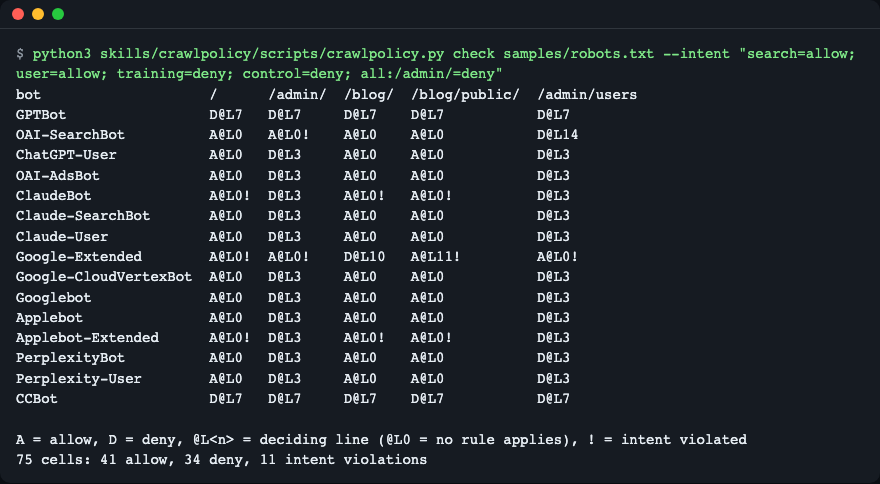
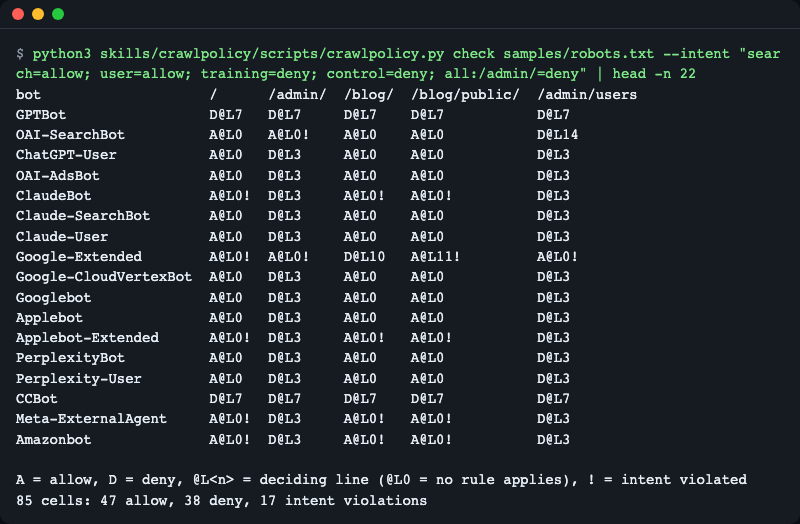
docs(readme): update for 17 built-in bots and refresh screenshots
Refresh the eval table date and the screenshots; add the 0.1.6 changelog entry.

Changed region(s): [[0.0, 0.093, 0.9688, 0.8678], [0.0, 0.8988, 0.9375, 0.9917], [0.0, 0.0, 0.0938, 0.062]]

diff --git a/README.ko.md b/README.ko.md
@@ -62,7 +62,7 @@ python3 skills/crawlpolicy/scripts/crawlpolicy.py check samples/robots.txt \
 판정 표는 위에 있습니다. 그 아래로 위반과 수정안이 나옵니다(위반이 있어서 종료 코드는 1 입니다). 아래는 영어 출력의 일부입니다.
 
 ```
-Intent violations (11):
+Intent violations (17):
   ! OAI-SearchBot /admin/ => allow @L0  (wanted deny by 'all:/admin/=deny')
   ! ClaudeBot / => allow @L0  (wanted deny by 'training=deny')
   ...
@@ -100,7 +100,7 @@ python3 skills/crawlpolicy/scripts/crawlpolicy.py diff samples/robots.old.txt sa
 ```
 
 ![두 robots.txt 사이에서 바뀐 칸만](docs/images/diff.ko.png)
-*75칸 중 7칸이 바뀌었습니다: `Google-Extended` 는 열렸고(`(접근 허용으로 바뀜)`) `CCBot` 은 막혔습니다(`(접근 차단으로 바뀜)`).*
+*85칸 중 7칸이 바뀌었습니다: `Google-Extended` 는 열렸고(`(접근 허용으로 바뀜)`) `CCBot` 은 막혔습니다(`(접근 차단으로 바뀜)`).*
 
 ## 의도 문법
 
@@ -108,7 +108,7 @@ python3 skills/crawlpolicy/scripts/crawlpolicy.py diff samples/robots.old.txt sa
 
 | `<who>` | 뜻 |
 |---|---|
-| `training` | 학습 데이터를 모으는 크롤러(`GPTBot`, `ClaudeBot`, `CCBot`) |
+| `training` | 학습 데이터를 모으는 크롤러(`GPTBot`, `ClaudeBot`, `CCBot`, `Meta-ExternalAgent`, `Amazonbot`) |
 | `search` | 검색 크롤러(`OAI-SearchBot`, `Claude-SearchBot`, `Googlebot`, `Applebot`, `PerplexityBot`) |
 | `user` | 사용자 요청으로 가져오는 봇(`ChatGPT-User`, `Claude-User`, `Perplexity-User`) |
 | `control` | 수집된 내용의 사용 방식만 정하는 제어 토큰(`Google-Extended`, `Applebot-Extended`) |
@@ -128,12 +128,14 @@ python3 skills/crawlpolicy/scripts/crawlpolicy.py diff samples/robots.old.txt sa
 | Applebot, Applebot-Extended | Apple | search, control | [Apple 지원](https://support.apple.com/en-us/119829) |
 | PerplexityBot, Perplexity-User | Perplexity | search, user | [bots](https://docs.perplexity.ai/guides/bots) |
 | CCBot | Common Crawl | training | [CCBot](https://commoncrawl.org/ccbot) |
+| Meta-ExternalAgent | Meta | training | [web crawlers](https://developers.facebook.com/docs/sharing/webmasters/web-crawlers/) |
+| Amazonbot | Amazon | training | [Amazonbot](https://developer.amazon.com/amazonbot) |
 
-2026-11-14 확인. Bingbot 은 해당 페이지를 확인하지 못해 표에서 뺐습니다. `--bots` 로 아무 토큰이나 넘기거나, `--bots-file FILE`(`{"token": ..., "role": ...}` 의 JSON 목록)로 표 전체를 바꿀 수 있습니다.
+2026-11-16 확인. Bingbot 은 해당 페이지를 확인하지 못해 표에서 뺐습니다. `--bots` 로 아무 토큰이나 넘기거나, `--bots-file FILE`(`{"token": ..., "role": ...}` 의 JSON 목록)로 표 전체를 바꿀 수 있습니다.
 
 ## 출력
 
-- 터미널: 판정 표, 위반, 패치, `re-verified: ...`(한국어 출력은 `재검증: ...`), 제공자 메모. 작은 실행(봇 하나, 12칸 이하, 또는 `--url`/`--urls` 로 URL 을 준 60칸 이하)은 판정 표 대신 칸마다 이긴 규칙 문장 또는 `(해당 규칙 없음)` 이 붙은 `<bot> <url> => allow|deny @L<n>  (<rule>)` 한 줄을 냅니다. 75칸짜리 데모처럼 큰 실행은 표를 그대로 씁니다.
+- 터미널: 판정 표, 위반, 패치, `re-verified: ...`(한국어 출력은 `재검증: ...`), 제공자 메모. 작은 실행(봇 하나, 12칸 이하, 또는 `--url`/`--urls` 로 URL 을 준 68칸 이하)은 판정 표 대신 칸마다 이긴 규칙 문장 또는 `(해당 규칙 없음)` 이 붙은 `<bot> <url> => allow|deny @L<n>  (<rule>)` 한 줄을 냅니다. 85칸짜리 데모처럼 큰 실행은 표를 그대로 씁니다.
 - 작업 폴더의 `crawlpolicy-report.json`: `source.sha256`, `verdict`·`rule_line` 이 있는 칸, 위반, `fix.verified`, `fix.violations_after`, `fix.regressions`. 키는 두 언어에서 같고, 실행할 때마다 덮어씁니다. 수정 안 한 `robots.fixed.txt` 에 `check`·`diff` 를 다시 돌리면 원래 report 는 그대로 두고 결과를 안내 문구와 함께 `crawlpolicy-report.fixed.json` 에 씁니다. fix 실행이 이미 재검증 결과를 출력하므로 이 두 번째 실행은 필요 없습니다.
 - `--out /dev/null`: 보고서를 남기지 않습니다. 판정과 패치는 그대로 출력하고 `files:` 줄이 보고서를 남기지 않았다고 알립니다. 작업 폴더에 쓸 수 없으면(읽기 전용·권한 없음) 아무것도 쓰지 않고 모든 판정·패치·`re-verified:` 줄을 출력하며 stderr 에 경고 한 줄을 냅니다. 종료 코드는 판정을 따릅니다. 직접 준 `--out` 에 쓸 수 없으면 입력 오류(종료 2)입니다.
 - 모든 실행은 `files:` 줄(한국어 출력은 `파일:`)로 끝납니다. 입력 파일은 하나도 바꾸지 않았고 이번에 쓴 출력 파일(보고서, 수정안이 있으면 `robots.fixed.txt` 도)이 적힙니다. 앞선 실행이 남긴 보고서나 `robots.fixed.txt` 를 바꿨다면 그 사실도 밝힙니다(`... already existed and was replaced`). 편집이 아니라 출력이니 그대로 두세요. `--out`·`--fixed-out` 이 입력 파일(robots.txt, `--urls`, `--bots-file`)이나 서로를 가리키면 옵션 이름을 적어 거부합니다(종료 2). 예: `error: --fixed-out urls.txt would overwrite the --urls file — choose another path`(한국어 출력은 `오류: ...`). 직접 준 `--out` 은 crawlpolicy 보고서가 아닌 기존 파일을 바꾸지 않습니다. 직접 고른 `--fixed-out` 경로에 파일이 이미 있으면 교체하고 `files:` 줄이 알려 줍니다. 잘못된 URL 은 한 줄 오류와 종료 2 입니다.
@@ -161,11 +163,11 @@ CRAWLPOLICY_LANG=ko python3 skills/crawlpolicy/scripts/crawlpolicy.py diff sampl
 | 필요 없을 때 안 불림 | 11/11 |
 | 스킬로 푼 작업 | 7/7 |
 | 스킬 없이 푼 작업(기준선) | 0/7 |
-| 평균 점수 차이(Δ) | +0.59 |
+| 평균 점수 차이(Δ) | +0.61 |
 | 가짜 스크립트를 잡아낸 비율 | 7/7 |
 | Codex CLI | 작업 7/7 통과 · 확인됨 |
 
-Claude Code 2.1.322 · sonnet · 케이스마다 3회 · 2026-11-15 측정 · codex-cli 0.154.0
+Claude Code 2.1.322 · sonnet · 케이스마다 3회 · 2026-11-16 측정 · codex-cli 0.154.0
 <!-- skill-eval:end -->
 
 ## 동작 원리
@@ -199,7 +201,7 @@ flowchart LR
 uv sync && uv run pytest -q
 ```
 
-테스트 241개가 통과합니다(`uv run pytest -q`, 파이썬 3.10·3.12·3.14 CI 매트릭스). `evals/` 폴더에는 발동 케이스 12개(한국어 3개), 비발동 케이스 11개, 픽스처가 있는 작업 케이스 7개가 있고 `claude plugin eval` 이 사용합니다.
+테스트 242개가 통과합니다(`uv run pytest -q`, 파이썬 3.10·3.12·3.14 CI 매트릭스). `evals/` 폴더에는 발동 케이스 12개(한국어 3개), 비발동 케이스 11개, 픽스처가 있는 작업 케이스 7개가 있고 `claude plugin eval` 이 사용합니다.
 
 ## 라이선스
 

diff --git a/README.md b/README.md
@@ -62,7 +62,7 @@ python3 skills/crawlpolicy/scripts/crawlpolicy.py check samples/robots.txt \
 The matrix is shown above. Below it come the violations and the fix (the command exits with code 1 because violations were found):
 
 ```
-Intent violations (11):
+Intent violations (17):
   ! OAI-SearchBot /admin/ => allow @L0  (wanted deny by 'all:/admin/=deny')
   ! ClaudeBot / => allow @L0  (wanted deny by 'training=deny')
   ...
@@ -100,7 +100,7 @@ python3 skills/crawlpolicy/scripts/crawlpolicy.py diff samples/robots.old.txt sa
 ```
 
 ![Only the changed cells between two robots.txt files](docs/images/diff.png)
-*7 of 75 cells changed: `Google-Extended` opened up (`(gained access)`), `CCBot` got blocked (`(lost access)`).*
+*7 of 85 cells changed: `Google-Extended` opened up (`(gained access)`), `CCBot` got blocked (`(lost access)`).*
 
 ## Intent syntax
 
@@ -108,7 +108,7 @@ python3 skills/crawlpolicy/scripts/crawlpolicy.py diff samples/robots.old.txt sa
 
 | `<who>` | Meaning |
 |---|---|
-| `training` | crawlers that collect training data (`GPTBot`, `ClaudeBot`, `CCBot`) |
+| `training` | crawlers that collect training data (`GPTBot`, `ClaudeBot`, `CCBot`, `Meta-ExternalAgent`, `Amazonbot`) |
 | `search` | search crawlers (`OAI-SearchBot`, `Claude-SearchBot`, `Googlebot`, `Applebot`, `PerplexityBot`) |
 | `user` | fetches made for a user request (`ChatGPT-User`, `Claude-User`, `Perplexity-User`) |
 | `control` | control tokens that only say how crawled content may be used (`Google-Extended`, `Applebot-Extended`) |
@@ -128,12 +128,14 @@ python3 skills/crawlpolicy/scripts/crawlpolicy.py diff samples/robots.old.txt sa
 | Applebot, Applebot-Extended | Apple | search, control | [Apple support](https://support.apple.com/en-us/119829) |
 | PerplexityBot, Perplexity-User | Perplexity | search, user | [bots](https://docs.perplexity.ai/guides/bots) |
 | CCBot | Common Crawl | training | [CCBot](https://commoncrawl.org/ccbot) |
+| Meta-ExternalAgent | Meta | training | [web crawlers](https://developers.facebook.com/docs/sharing/webmasters/web-crawlers/) |
+| Amazonbot | Amazon | training | [Amazonbot](https://developer.amazon.com/amazonbot) |
 
-Checked 2026-11-14. Bingbot is not in the table because its page could not be verified; pass any token with `--bots`, or replace the whole table with `--bots-file FILE` (a JSON list of `{"token": ..., "role": ...}`).
+Checked 2026-11-16. Bingbot is not in the table because its page could not be verified; pass any token with `--bots`, or replace the whole table with `--bots-file FILE` (a JSON list of `{"token": ..., "role": ...}`).
 
 ## Output
 
-- Terminal: the matrix, violations, patch, `re-verified: ...`, provider notes. Small runs (one bot, at most 12 cells, or URLs given with `--url`/`--urls` and at most 60 cells) print one `<bot> <url> => allow|deny @L<n>  (<rule>)` line per cell instead of the matrix, with the winning rule text or `(no matching rule)`. Larger runs, like the 75-cell demo, keep the matrix.
+- Terminal: the matrix, violations, patch, `re-verified: ...`, provider notes. Small runs (one bot, at most 12 cells, or URLs given with `--url`/`--urls` and at most 68 cells) print one `<bot> <url> => allow|deny @L<n>  (<rule>)` line per cell instead of the matrix, with the winning rule text or `(no matching rule)`. Larger runs, like the 85-cell demo, keep the matrix.
 - `crawlpolicy-report.json` in the working folder: `source.sha256`, cells with `verdict` and `rule_line`, violations, `fix.verified`, `fix.violations_after`, `fix.regressions`. Keys are the same in both languages. Each run overwrites the file. If you run `check` or `diff` on the unchanged `robots.fixed.txt`, the original report is kept and the result goes to `crawlpolicy-report.fixed.json` with a note; the fix run itself already prints the re-verification, so that second run is not needed.
 - `--out /dev/null`: keep no report; the verdicts and the patch are still printed and the `files:` line says no report was kept. If the working folder cannot be written (read-only, no permission), nothing is written, every verdict, patch and `re-verified:` line is still printed, and a one-line warning goes to stderr; the exit code follows the verdicts. An explicit `--out` that cannot be written is an input error (exit 2).
 - `robots.fixed.txt`: the fixed copy.
@@ -162,11 +164,11 @@ CRAWLPOLICY_LANG=ko python3 skills/crawlpolicy/scripts/crawlpolicy.py diff sampl
 | Stays quiet when it should not | 11/11 |
 | Tasks solved with the skill | 7/7 |
 | Tasks solved without it (baseline) | 0/7 |
-| Mean score gain (Δ) | +0.59 |
+| Mean score gain (Δ) | +0.61 |
 | Tasks that catch a broken script | 7/7 |
 | Codex CLI | 7/7 tasks · verified |
 
-Measured 2026-11-15 with Claude Code 2.1.322 · sonnet · 3 runs per case · codex-cli 0.154.0
+Measured 2026-11-16 with Claude Code 2.1.322 · sonnet · 3 runs per case · codex-cli 0.154.0
 <!-- skill-eval:end -->
 
 ## How it works
@@ -200,7 +202,7 @@ Good fits: checking a robots.txt before deploy when you want AI training crawler
 uv sync && uv run pytest -q
 ```
 
-241 tests pass (`uv run pytest -q`, Python 3.10, 3.12 and 3.14 in the CI matrix). The `evals/` folder holds 12 trigger cases (3 in Korean), 11 no-trigger cases and 7 task cases with fixtures, used by `claude plugin eval`.
+242 tests pass (`uv run pytest -q`, Python 3.10, 3.12 and 3.14 in the CI matrix). The `evals/` folder holds 12 trigger cases (3 in Korean), 11 no-trigger cases and 7 task cases with fixtures, used by `claude plugin eval`.
 
 ## License
 

diff --git a/CHANGELOG.md b/CHANGELOG.md
@@ -4,6 +4,20 @@ All notable changes to this project are documented here. The format follows
 [Keep a Changelog](https://keepachangelog.com/en/1.1.0/) and the project uses
 [Semantic Versioning](https://semver.org/).
 
+## [0.1.6] - 2026-11-16
+
+### Changed
+
+- The built-in crawler table now has 17 bots: `Meta-ExternalAgent` (Meta) and `Amazonbot` (Amazon) are added with the
+  provider's documentation URL as source (checked 2026-11-16). Both are in the `training` role, as each provider's page
+  says the crawler is used to train AI models.
+- The default matrix grows from 75 to 85 cells (17 bots x 5 URLs) and the verdict-line limit for `--url` runs with the
+  built-in table is 68 cells (17 x 4).
+- A robots.txt that did not block the new bots now reports new intent violations under `training=deny`, so a CI job
+  that passed before can exit with code 1. To keep the old behaviour pin the bots:
+  `--bots GPTBot,OAI-SearchBot,ChatGPT-User,OAI-AdsBot,ClaudeBot,Claude-SearchBot,Claude-User,Google-Extended,Google-CloudVertexBot,Googlebot,Applebot,Applebot-Extended,PerplexityBot,Perplexity-User,CCBot`
+  (the old 15 bots, 75 cells). Do not pin with a role name such as `training`: it now expands to the two new bots too.
+
 ## [0.1.5] - 2026-11-15
 
 ### Fixed
